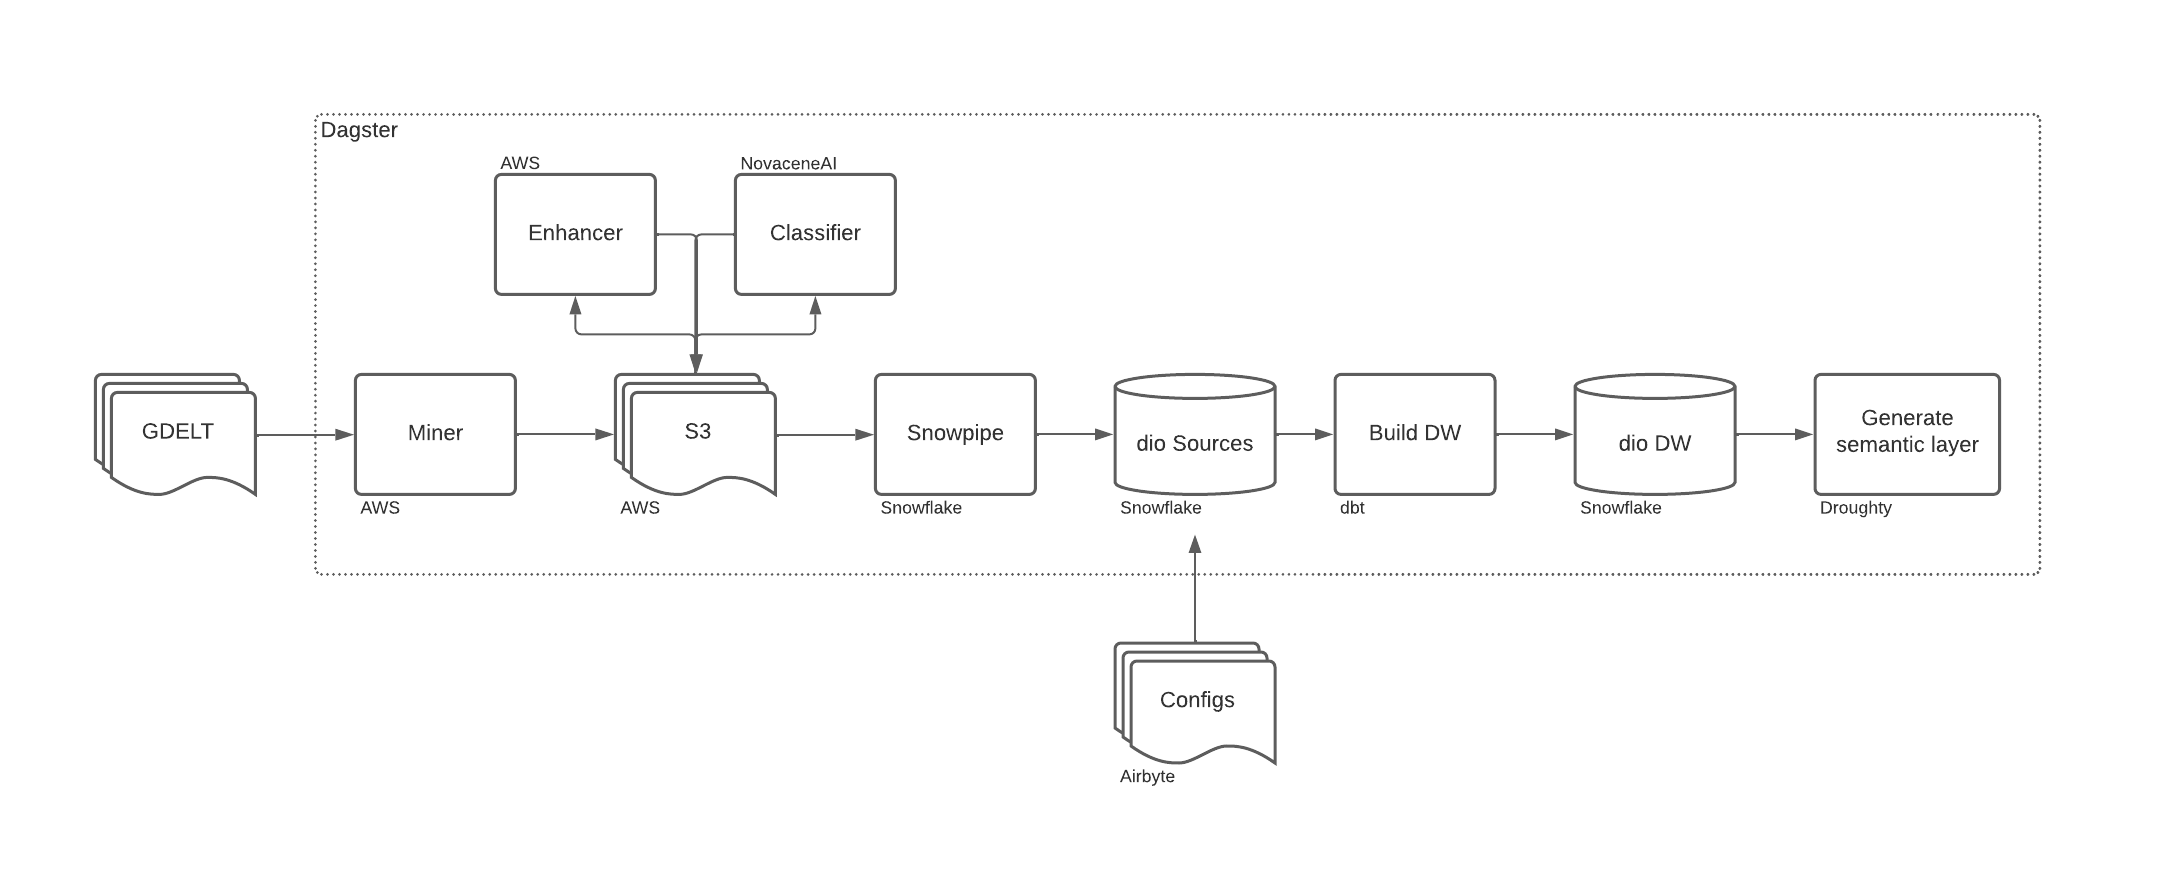
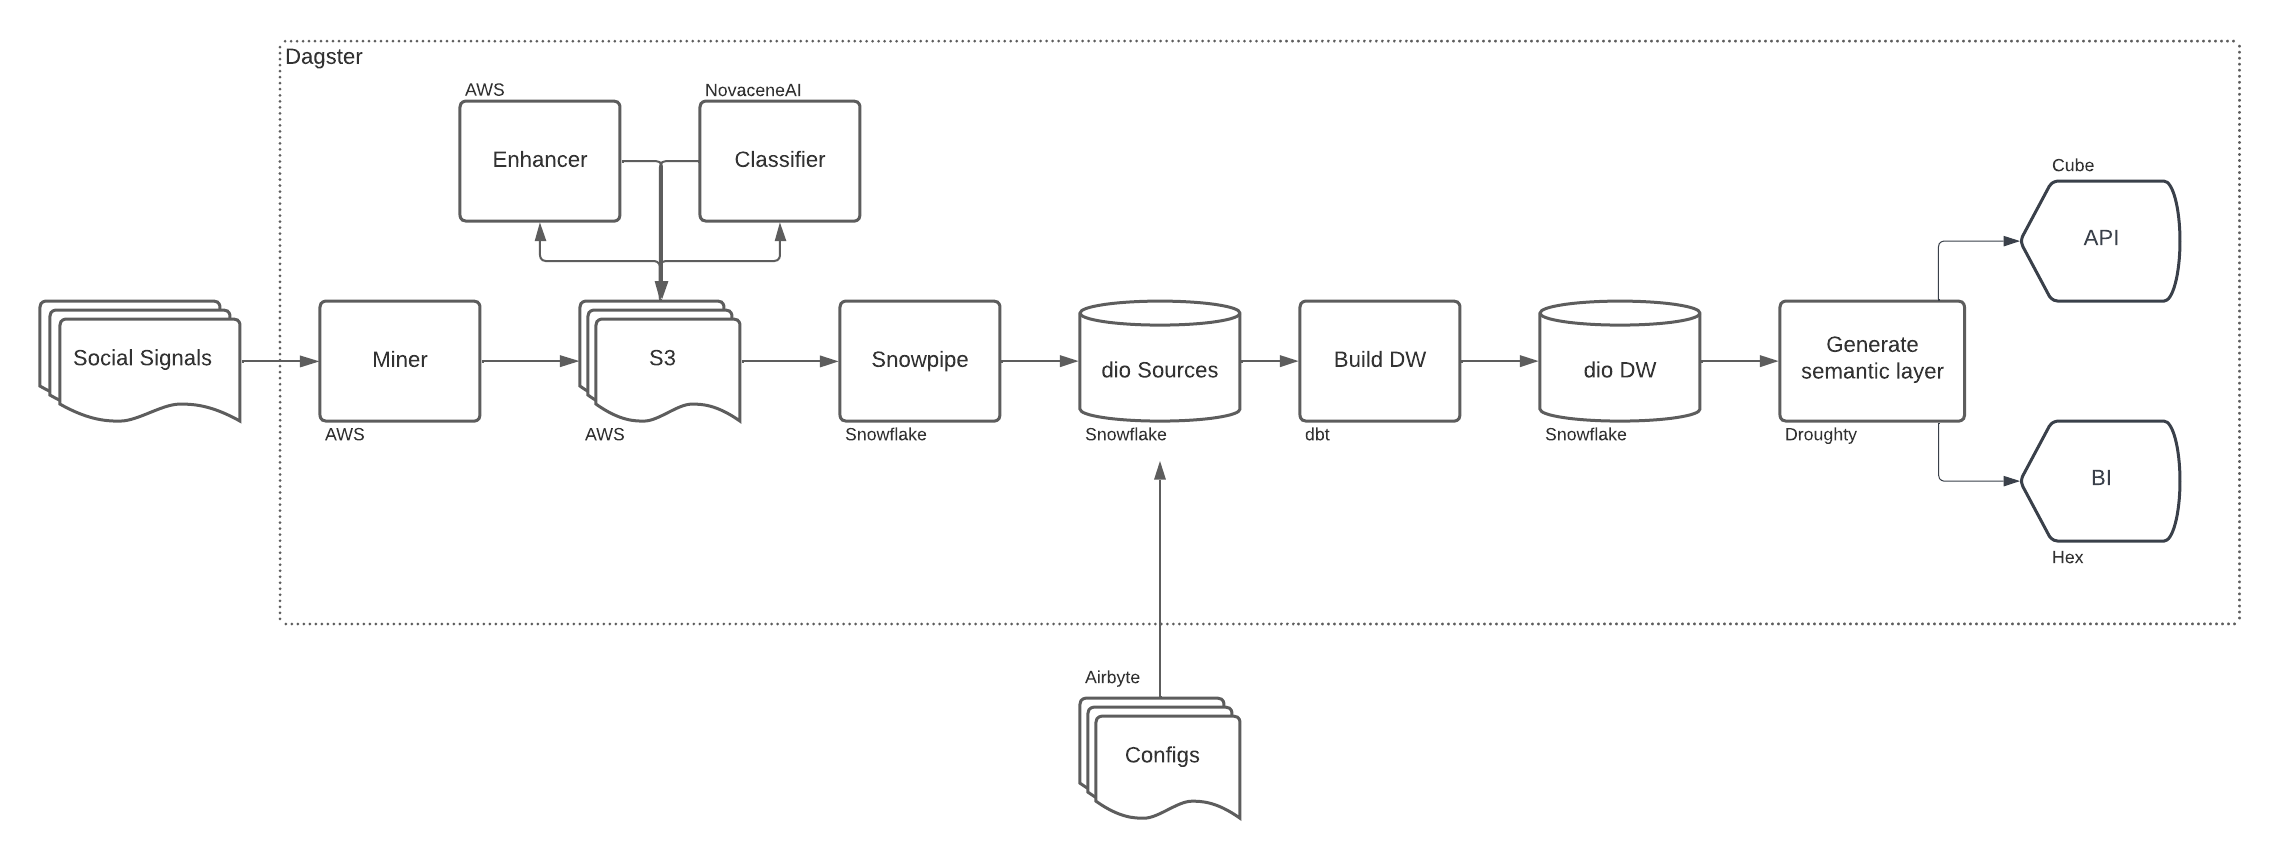
Updating README file

diff --git a/README.md b/README.md
@@ -9,19 +9,25 @@
     <a href="https://www.linkedin.com/company/lantrns-co/">LinkedIn</a>
     <br /><br />
     <a href="https://github.com/lantrns-analytics/dpf_core/releases">
-        <img src="https://img.shields.io/github/release/lantrns-analytics/dpf_core" alt="Latest release" />
+        <img src="https://img.shields.io/github/release/lantrns-analytics/saf_core" alt="Latest release" />
+    </a>
+    <a href="https://github.com/lantrns-analytics/saf_core/network/members">
+        <img src="https://img.shields.io/github/forks/lantrns-analytics/saf_core" alt="Forks" />
+    </a>
+    <a href="https://github.com/lantrns-analytics/saf_core/stargazers">
+        <img src="https://img.shields.io/github/stars/lantrns-analytics/saf_core" alt="Stars" />
     </a>
     <a href="https://github.com/lantrns-analytics/dpf_core/issues">
-        <img src="https://img.shields.io/github/issues/lantrns-analytics/dpf_core" alt="Open issues" />
+        <img src="https://img.shields.io/github/issues/lantrns-analytics/saf_core" alt="Open issues" />
     </a>
     <a href="https://github.com/lantrns-analytics/dpf_core/contributors/">
-        <img src="https://img.shields.io/github/contributors/lantrns-analytics/dpf_core" alt="Contributors" />
+        <img src="https://img.shields.io/github/contributors/lantrns-analytics/saf_core" alt="Contributors" />
     </a>
 </p>
 
-# The Lantrns Analytics Open-Source Data Product Framework
+# The Social Analytics Framework
 
-The __Lantrns Analytics open-source data product framework__ provides an architecture and suite of librairies to quickly start sourcing, transforming and delivering high quality data assets to your users.
+The OSS __Social Analytics Framework__ provides an architecture and suite of librairies to quickly start sourcing, transforming and delivering high quality public social signals to your users.
 
 <img src='resources/images/lantrns_analytics_data_product_framework.png' width='750px' alt='Lantrns Analytics open-source data product framework' />
 
@@ -29,7 +35,9 @@ The __Lantrns Analytics open-source data product framework__ provides an archite
 
 ## Implementations
 
-We use this framework for our very own [discursus data product](https://www.discursus.io). Below is an overview of what a typical flow of data asset transformations looks like.
+We use this framework for [discursus](https://github.com/lantrns-analytics/discursus_data_platform), which is an open source social analytics data product that continuously deliver data on protest movements throughout North America.. 
+
+Below is an overview of what this data product's flow of data asset transformations looks like.
 
 <img src='resources/images/discursus_data_platform.png' width='750px' alt='discursus data platform' />
 
@@ -37,119 +45,56 @@ We use this framework for our very own [discursus data product](https://www.disc
 
 ## Architecture
 
-In the case above, we rely on the following architecture to support our instance.
+For the discursus project above, we rely on the following architecture to support our instance.
 
 <img src="resources/images/discursus_core_architecture.png" width="750px" alt="discursus" />
 
 Here are the components of this implementation:
 
-- A miner that sources events from the GDELT project and saves it to AWS S3.
-- An enhancement process that scrapes the article's metadata and saves it to AWS S3.
-- An ML enrichment process that classifies article's relevancy using a custom ML algorithm hosted on Novacene.ai and saves results to AWS S3.
-- A suite of snowpipes that loads S3 data to Snowflake.
-- A dbt project that creates a data warehouse which exposes protest events.
-- A Dagster app that orchestrates all data transformation jobs and the creation of assets.
+- A suite of miners that sources social public signals such as GDELT and Twitter.
+- Cloud storage such as S3.
+- Data preparation libraries to repair and enhance data.
+- Data transfer capabilities such as Snowpipe, to move data between cloud storage and cloud data warehouses.
+- dbt transformations to build and package data assets.
+- Semantic layer definition automations, to expose data assets.
+- API and BI tool layers to consume data assets and serve them to end users.
+- A Dagster app that orchestrates the creation of data assets.
 
 &nbsp;
 
 ## Installation
-To spin up an instance of the __Lantrns Analytics open-source data product framework__, you will need the following external service accounts in place:
-- An AWS S3 bucket to store raw and enhanced data assets.
-- An AWS ec2 instance (or similar) to run your own instance.
-
-In addition to those 2 foundational components, you might need the following:
-- A Snowflake account (or similar) to stage data, perform transformations of data and expose entities.
-- A Novacene.ai account (or similar) to perform ML enrichments.
-
-Once you have all those in place, you can fork the this repo.
-
-Only thing left is to configure your instance:
-- Rename the `Dockerfile_app.REPLACE` file to `Dockerfile_app`.
-- Change the values of environment variables within the `Dockerfile_app` file.
-- Make any necessary changes to `docker-compose`
+To use the __Social Analytics Framework__, you will need to:
+- Fork this  repo.
+- Set up your accounts to service all the components of your own architecture (app hosting, cloud storage, data warehouse, etc.).
+- Configuration of the Docker definitions:
+    - Rename the `Dockerfile_app.REPLACE` file to `Dockerfile_app`.
+    - Change the values of environment variables within the `Dockerfile_app` file.
+    - Make any necessary changes to `docker-compose`
 - To run the Docker stack locally: `docker compose -p "dpf-core" --file docker-compose.yml up --build`
 - Visit Dagster's app: `http://127.0.0.1:3000/`
 
 &nbsp;
 
-# Libraries
-Libraries are groups of ops to be used within your own instance of the framework. An op might require a [resource](https://docs.dagster.io/concepts/resources) and/or [configurations](https://docs.dagster.io/concepts/configuration/config-schema#run-configuration) or nothing.
+## Libraries
+Libraries are [resources](https://docs.dagster.io/concepts/resources) used within your own instance of the framework. Resources usually require [configurations](https://docs.dagster.io/concepts/configuration/config-schema#run-configuration).
 
-## Installation
 We assume you are running a Docker file such as the one we have in the [Core repo](https://github.com/lantrns-analytics/dpf_core/blob/release/0.1/Dockerfile_app.REPLACE). Let's say we wanted to add the GDELT library, the only thing you need to add is the following.
 
-`RUN pip3 install git+https://github.com/lantrns-analytics/dpf_gdelt@release/0.1.1`
+`RUN pip3 install git+https://github.com/lantrns-analytics/saf_gdelt@release/0.2`
 
-## Passing a resource
-When you call an op from the library, you might need to pass a resource which is needed to run the ops.
-
-```
-from dpf_utils import persistance_ops
-
-aws_configs = config_from_files(['configs/aws_configs.yaml'])
-my_aws_client = gdelt_resources.gdelt_client.configured(aws_configs)
-
-@job(
-    resource_defs = {
-        'aws_client': my_aws_client
-    }
-)
-def my_job():
-     persistance_ops.save_data_asset()
-```
-
-## Configuring ops
-Some ops require you pass configurations that will shape how that op will run. Passing configuations is as simple as adding those to the job decorator. For example:
-
-```
-from dpf_gdelt import gdelt_mining_ops
-
-@job(
-    resource_defs = {
-        'aws_client': my_aws_client
-    },
-    config = {
-        "ops": {
-            "get_url_to_latest_asset": {
-                "config": {
-                    "gdelt_asset": "events"
-                }
-            },
-            "materialize_data_asset": {
-                "config": {
-                    "asset_key_parent": "sources",
-                    "asset_key_child": "gdelt_events",
-                    "asset_description": "List of events mined on GDELT"
-                }
-            },
-            "filter_latest_events": {
-                "config": {
-                    "filter_event_code": 14,
-                    "filter_countries": {
-                        "US",
-                        "CA"
-                    }
-                }
-            }
-        }
-    }
-)
-def mine_gdelt_events():
-    latest_events_url = gdelt_mining_ops.get_url_to_latest_asset()
-    latest_events_source_path = gdelt_mining_ops.build_file_path(latest_events_url)
-    df_latest_events = gdelt_mining_ops.mine_latest_asset(latest_events_url)
-    df_latest_events_filtered = gdelt_mining_ops.filter_latest_events(df_latest_events)
-    persistance_ops.save_data_asset(df_latest_events_filtered, latest_events_source_path)
-    persistance_ops.materialize_data_asset(df_latest_events_filtered, latest_events_source_path)
-```
+Please visit the following library repos for more information on how to use each of them:
+- [AWS](https://github.com/lantrns-analytics/saf_aws)
+- [GDELT](https://github.com/lantrns-analytics/saf_gdelt)
+- [Web Scraper](https://github.com/lantrns-analytics/saf_web_scraper)
+- [Novacene AI](https://github.com/lantrns-analytics/saf_novacene)
 
 &nbsp;
 
-# Contributing
+## Contributing
 
 There are many ways you can contribute and help evolve the __Lantrns Analytics open-source data product framework__. Here a few ones:
 
-* Star this repo, visit our [website](https://www.lantrns.co/) and follow us on [Twitter](https://twitter.com/lantrns_co).
+* Star this repo.
 * Fork this repo and run an instance yourself and please 🙏 help us out with documentation.
 * Take ownership of some of the [issues we already documented](https://github.com/lantrns-analytics/dpf_core/issues), and send over some PRs.
 * Contribute to the libraries.
@@ -159,6 +104,6 @@ All sort of contributions are **welcome and extremely helpful** 🙌
 
 &nbsp;
 
-# License
+## License
 
-The __Lantrns Analytics open-source data product framework__ is [MIT licensed](./LICENSE.md).
+The __Social Analytics Framework__ is [MIT licensed](./LICENSE.md).
